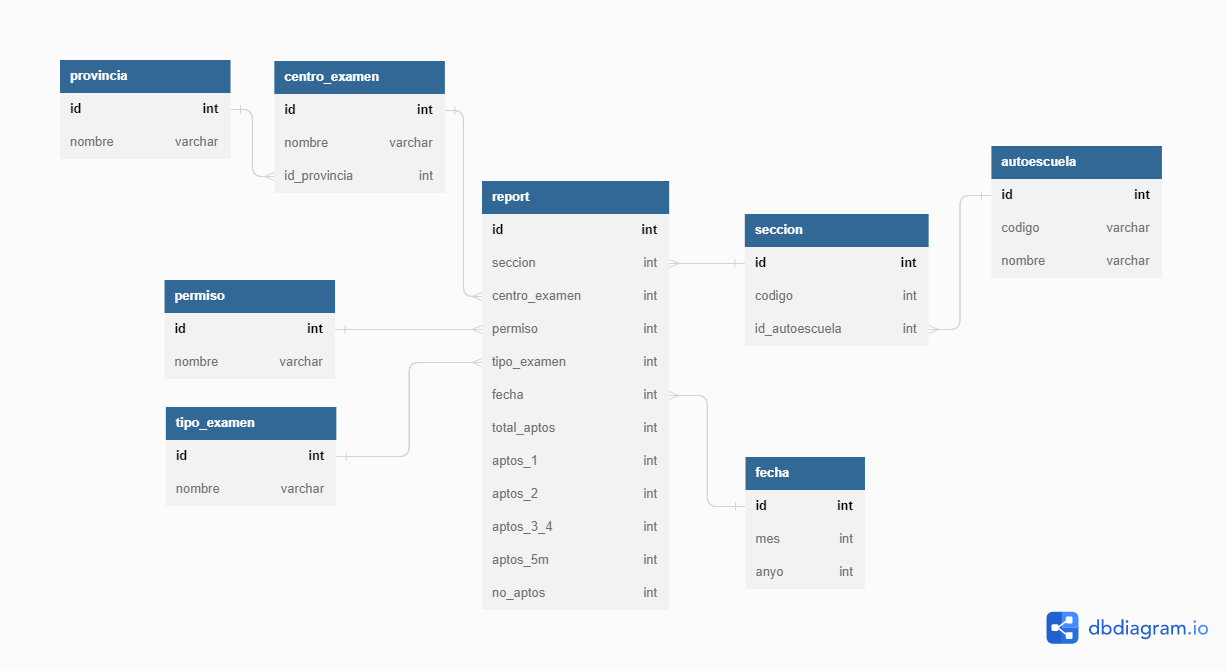
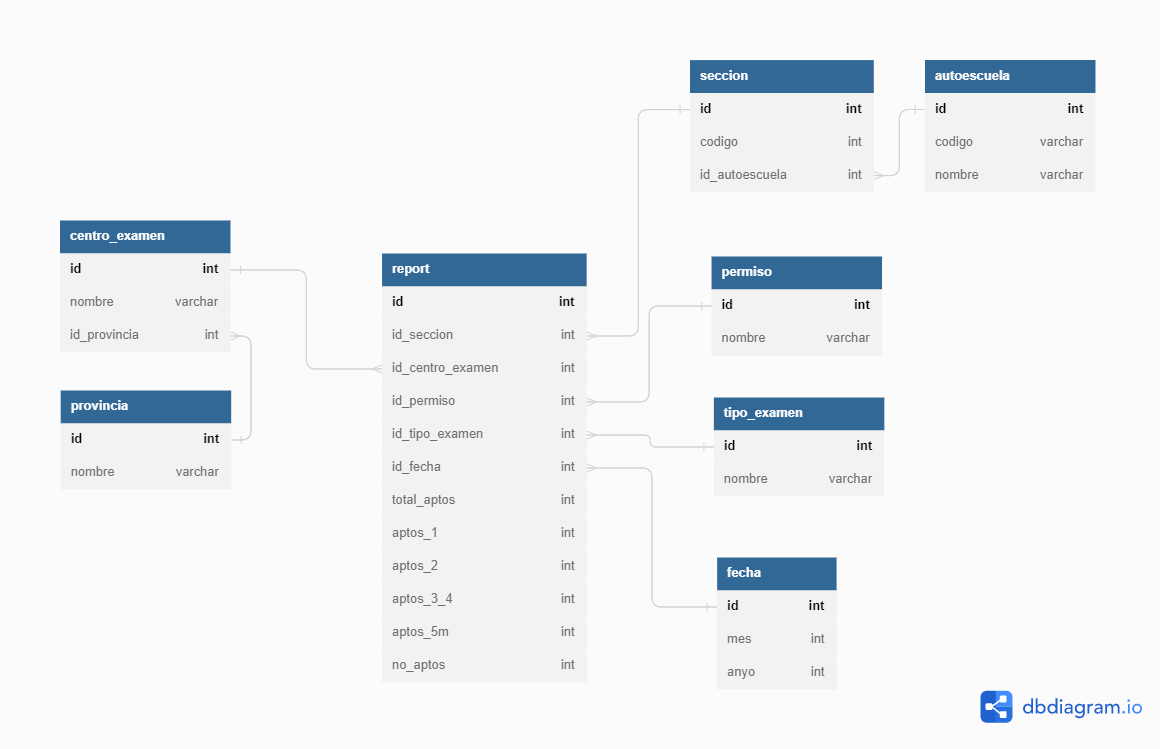
finished db structure

diff --git a/ingest/db.py b/ingest/db.py
@@ -49,8 +49,9 @@ def add_one(query, params):
         created_id = cursor.lastrowid
         cnx.commit()
         cursor.close()
-    except DatabaseError:
+    except DatabaseError as e:
         print(f'WARNING: could not add {params}')
+        print(e)
     return created_id
 
 
@@ -73,13 +74,13 @@ def update_provincias(provincias):
 
 
 def add_centro(nombre, id_provincia):
-    query = 'INSERT INTO `centro_examen` (`nombre`, `provincia`) VALUES (%s, %s);'
+    query = 'INSERT INTO `centro_examen` (`nombre`, `id_provincia`) VALUES (%s, %s);'
     params = (nombre, id_provincia)
     return add_one(query, params)
 
 
 def find_centro(nombre, id_provincia):
-    query = 'SELECT `id`, `nombre`, `provincia` FROM `centro_examen` WHERE `nombre` = %s AND `provincia` = %s;'
+    query = 'SELECT `id`, `nombre`, `id_provincia` FROM `centro_examen` WHERE `nombre` = %s AND `id_provincia` = %s;'
     params = (nombre, id_provincia)
     return find_one(query, params)
 
@@ -110,14 +111,14 @@ def update_autoescuelas(autoescuelas):
 
 
 def add_seccion(codigo, id_autoescuela):
-    query = 'INSERT INTO `seccion` (`codigo`, `autoescuela`) VALUES (%s, %s);'
+    query = 'INSERT INTO `seccion` (`codigo`, `id_autoescuela`) VALUES (%s, %s);'
     params = (codigo, id_autoescuela)
     return add_one(query, params)
 
 
 def find_seccion(codigo, id_autoescuela):
-    query = 'SELECT `id`, `codigo`, `autoescuela` ' \
-            'FROM `seccion` WHERE `codigo` = %s AND `autoescuela` = %s;'
+    query = 'SELECT `id`, `codigo`, `id_autoescuela` ' \
+            'FROM `seccion` WHERE `codigo` = %s AND `id_autoescuela` = %s;'
     params = (codigo, id_autoescuela)
     return find_one(query, params)
 
@@ -147,21 +148,20 @@ def update_tipos_examen(tipos_examen):
             add_tipo_examen(tipo)
 
 
-def add_fecha(nombre):
+def add_fecha(mes, anyo):
     query = 'INSERT INTO `fecha` (`mes`, `anyo`) VALUES (%s, %s);'
     params = (mes, anyo)
     return add_one(query, params)
 
 
-def find_fecha(nombre):
+def find_fecha(mes, anyo):
     query = 'SELECT `id`, `mes`, `anyo` FROM `fecha` WHERE `mes` = %s AND `anyo` = %s;'
     params = (mes, anyo)
     return find_one(query, params)
 
 
-def update_fecha(fecha):
-    for _,  (mes, anyo) in fecha.iterrows():
-        id, _, _ = find_fecha(fecha)
+def update_fecha(fechas): 
+    for _,  (mes, anyo) in fechas.iterrows():
         if find_fecha(mes, anyo) is None:
             add_fecha(mes, anyo)
 
@@ -185,7 +185,7 @@ def update_permisos(permisos):
 
 
 def add_report(secc, centro, per, tipo, fecha, a, a1, a2, a34, a5m, na):
-    query = "INSERT INTO `report` (`seccion`, `centro_examen`, `permiso`, `tipo_examen`, `fecha`, " \
+    query = "INSERT INTO `report` (`id_seccion`, `id_centro_examen`, `id_permiso`, `id_tipo_examen`, `id_fecha`, " \
             "`total_aptos`, `aptos_1`, `aptos_2`, `aptos_3_4`, `aptos_5m`, `no_aptos`) " \
             "VALUES (%s, %s, %s, %s, %s, %s, %s, %s, %s, %s, %s)"
     params = (secc, centro, per, tipo, fecha, a, a1, a2, a34, a5m, na)
@@ -193,14 +193,15 @@ def add_report(secc, centro, per, tipo, fecha, a, a1, a2, a34, a5m, na):
 
 
 def create_reports(records):
-    for _, (prov, centro, auto, _, secc, fecha, tipo, per, a, a1, a2, a34, a5m, na) in records.iterrows():
+    for _, (prov, centro, auto, _, secc, mes, anyo, tipo, per, a, a1, a2, a34, a5m, na) in records.iterrows():
         id_provincia = find_provincia(prov)[0]
         id_centro = find_centro(centro, id_provincia)[0]
         id_autoescuela = find_autoescuela(auto)[0]
         id_seccion = find_seccion(secc, id_autoescuela)[0]
+        id_fecha = find_fecha(mes, anyo)[0]
         id_permiso = find_permiso(per)[0]
         id_tipo = find_tipo_examen(tipo)[0]
-        add_report(id_seccion, id_centro, id_permiso, id_tipo, fecha, a, a1, a2, a34, a5m, na)
+        add_report(id_seccion, id_centro, id_permiso, id_tipo, id_fecha, a, a1, a2, a34, a5m, na)
 
 
 def set_read_file(filename):

diff --git a/ingest/ingest.py b/ingest/ingest.py
@@ -34,6 +34,8 @@ def import_to_db(file):
     db.update_tipos_examen(tipos_examen)
     permisos = df['NOMBRE_PERMISO'].unique()
     db.update_permisos(permisos)
+    fechas = df.groupby(by='MES', as_index=False)['ANYO'].apply(set)
+    db.update_fecha(fechas)
     reports = df
     db.create_reports(reports)
 
